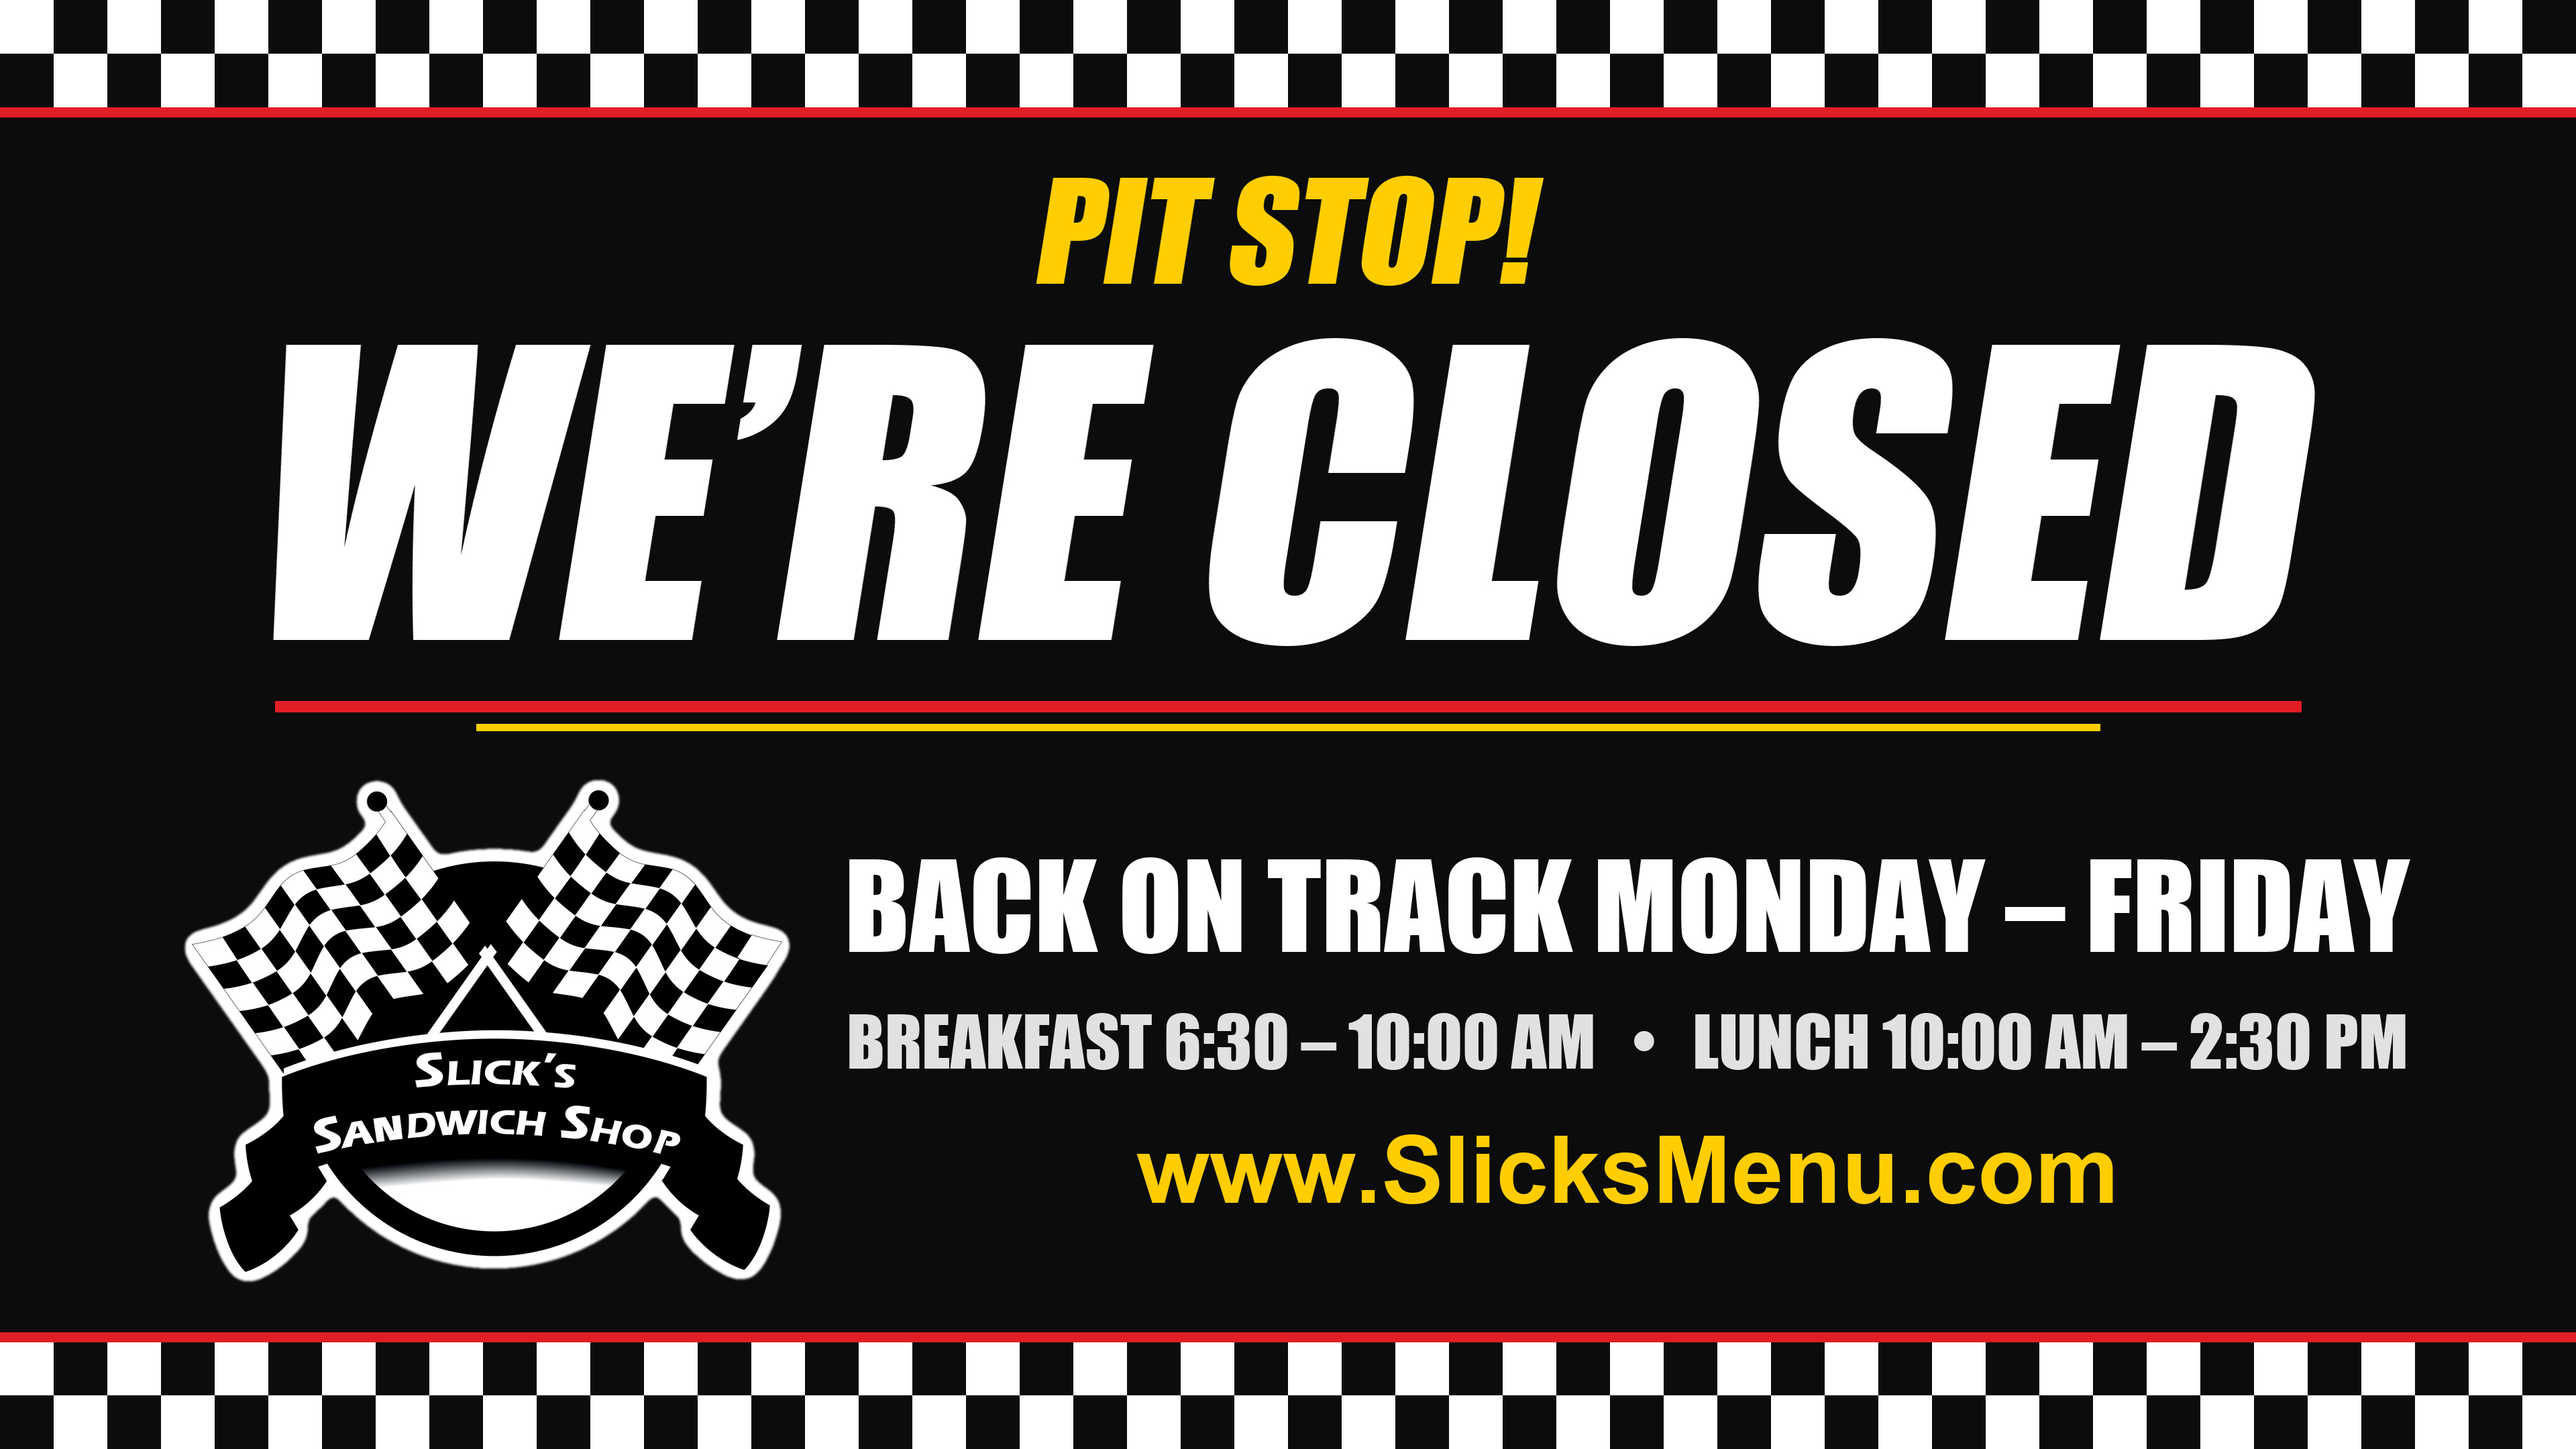
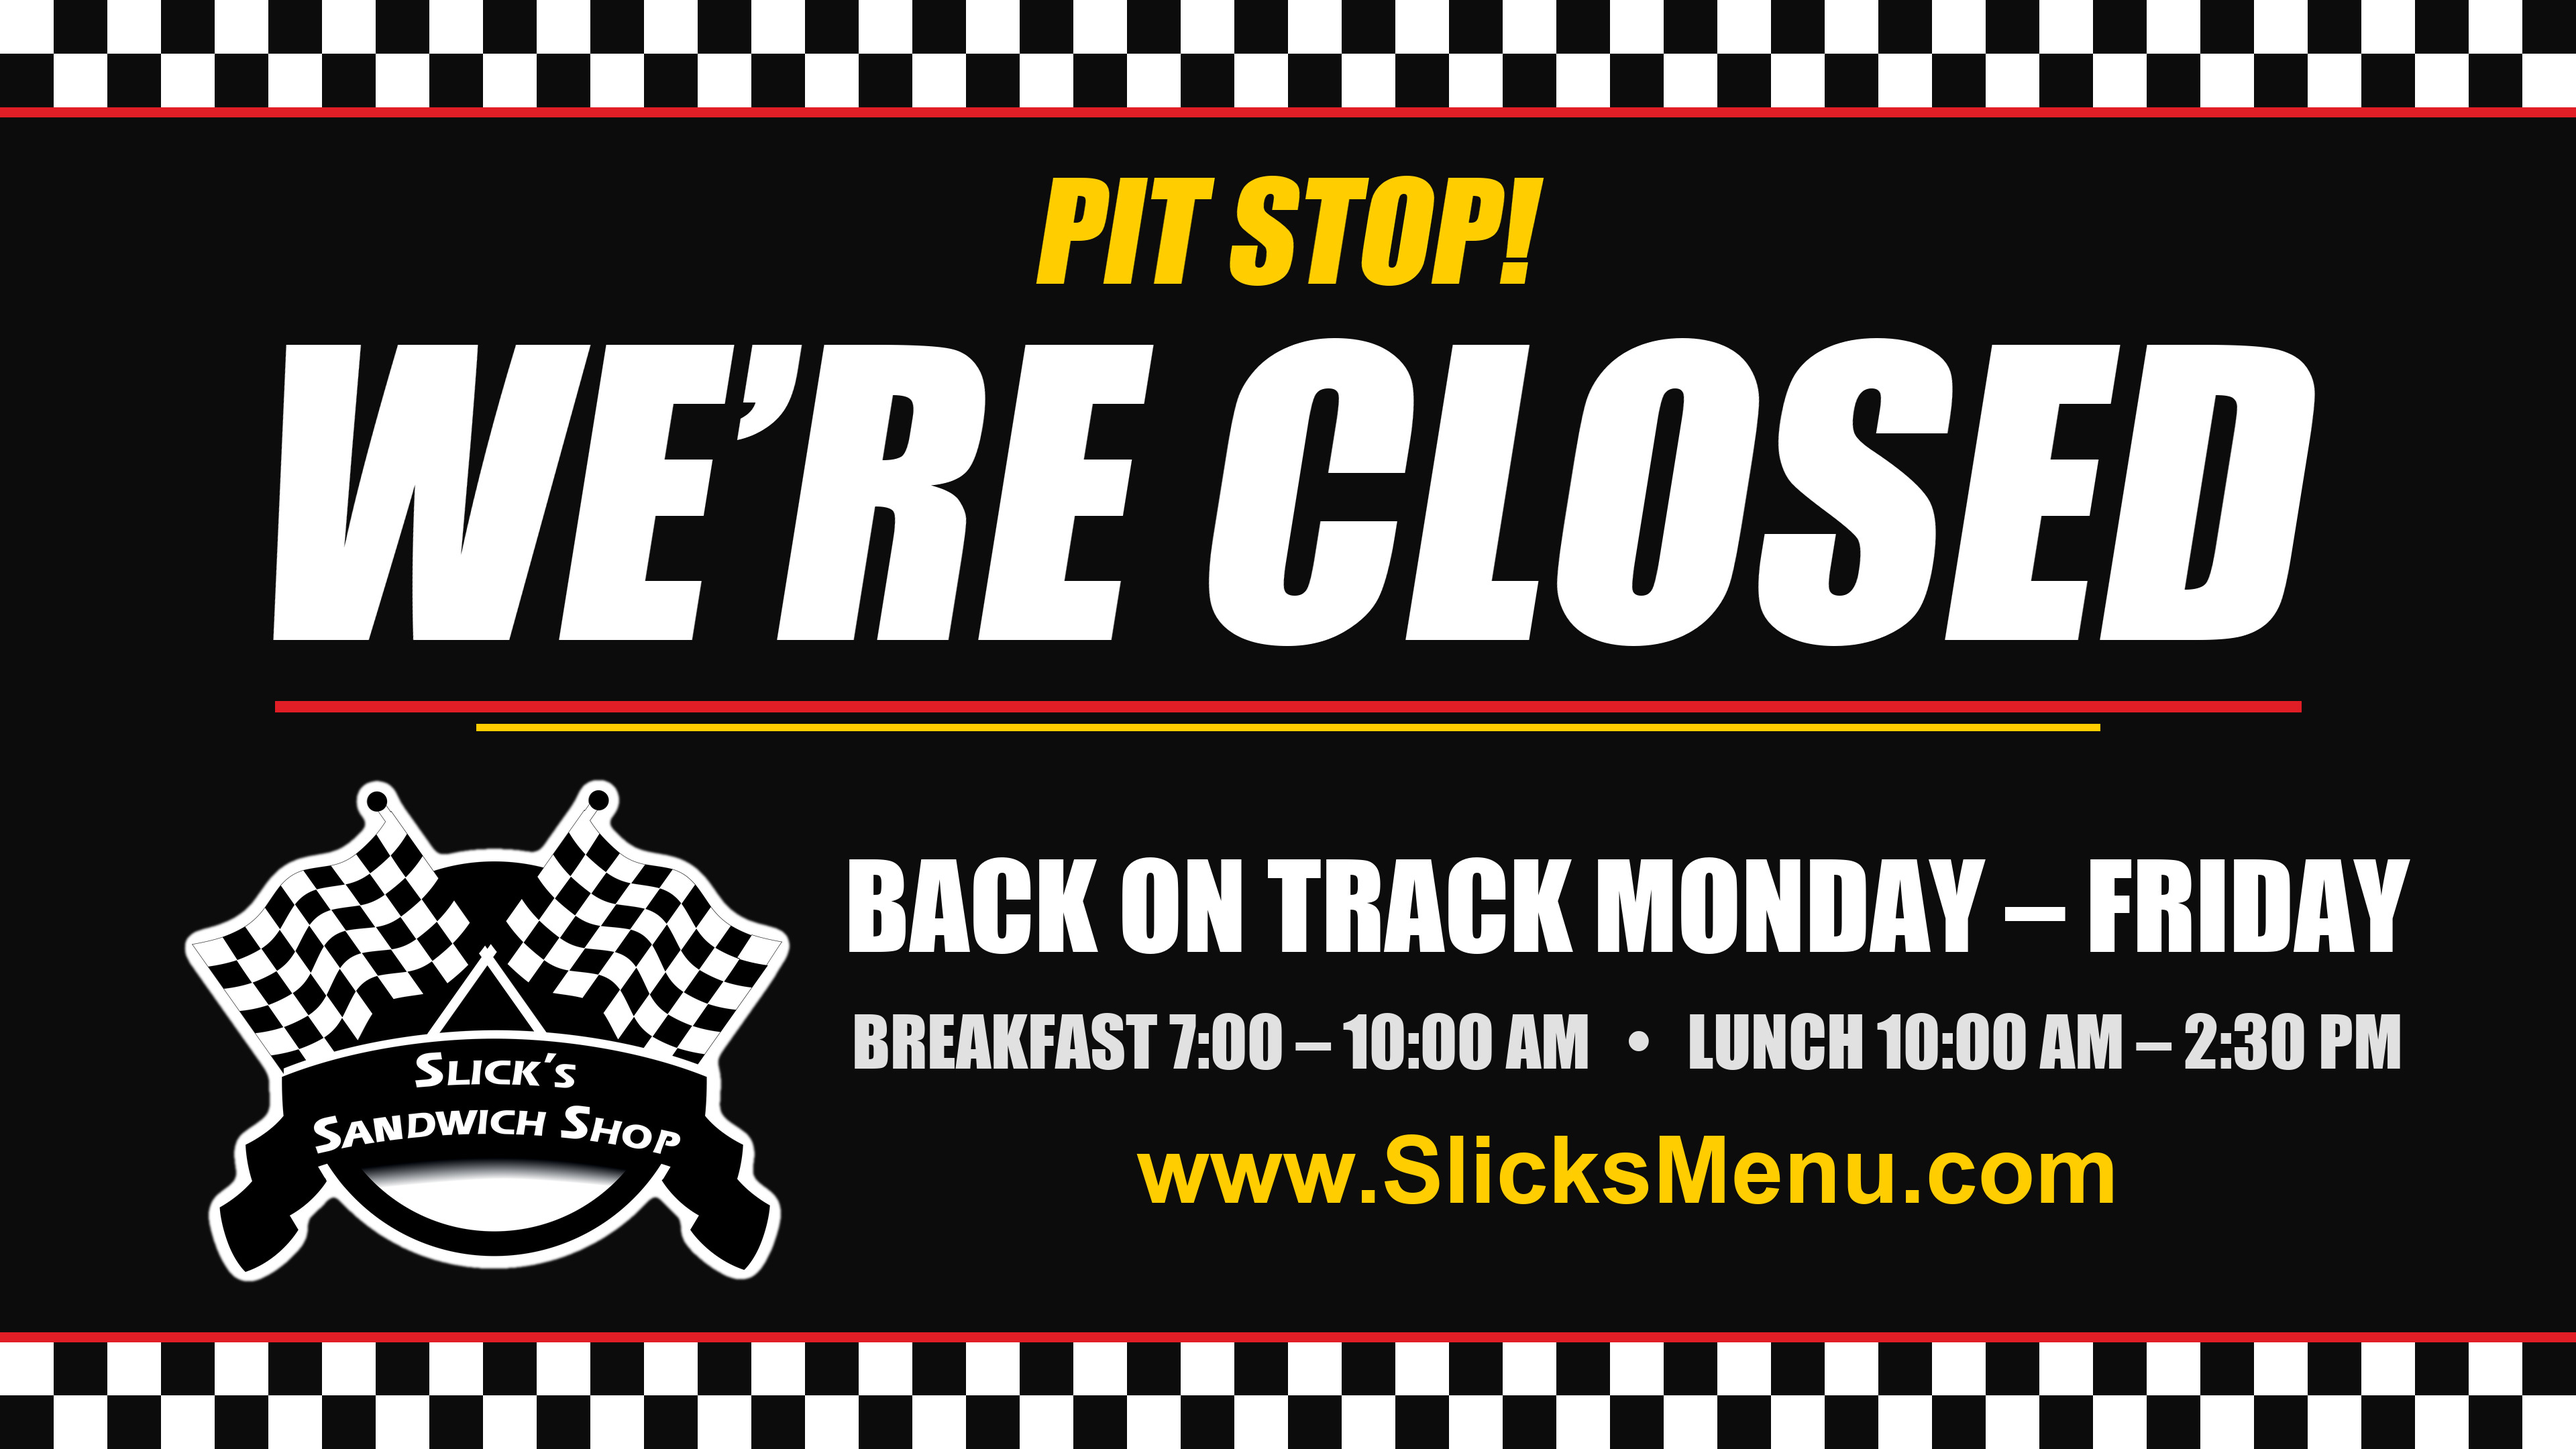
Opening time is 7:00 am, not 6:30
The shop opens at 7:00 am (breakfast 7:00-10:00, lunch 10:00-2:30).

- bundled settings.csv: breakfast_start 07:00
- app.js: built-in default for a missing breakfast_start is now 7:00
- fallback Closed picture redrawn with 7:00; cache bumped to v5
- preview page heading and README updated

The TVs read breakfast_start from the Google Sheet, so that cell must be
changed to 07:00 as well.

Changed region(s): [[0.3125, 0.6824, 0.625, 0.7444], [0.6562, 0.6824, 0.9375, 0.7444]]

diff --git a/app.js b/app.js
@@ -373,7 +373,7 @@
   function schedule(now) {
     var c = data.cfg, info = dayInfo(now);
     var t = now.getUTCHours() * 60 + now.getUTCMinutes();
-    var bs = mins(c.breakfast_start, 390), ls = mins(c.lunch_start, 600), gc = mins(c.grill_close, 840), cl = mins(c.close, 870);
+    var bs = mins(c.breakfast_start, 420), ls = mins(c.lunch_start, 600), gc = mins(c.grill_close, 840), cl = mins(c.close, 870);
     var st = "closed";
     if (info.opens && t >= bs && t < cl) st = t < ls ? "breakfast" : "lunch";
     return { state: st, day: info.day, grillClosed: st === "lunch" && t >= gc };
@@ -384,11 +384,11 @@
   // and when it opens next, and so the hours always match the Sheet.
   var DAYNAMES = { Sun: "Sunday", Mon: "Monday", Tue: "Tuesday", Wed: "Wednesday", Thu: "Thursday", Fri: "Friday", Sat: "Saturday" };
   var MONTHNAMES = ["January", "February", "March", "April", "May", "June", "July", "August", "September", "October", "November", "December"];
-  function clock(m) {            // 390 -> { t: "6:30", ap: "am" }
+  function clock(m) {            // 420 -> { t: "7:00", ap: "am" }
     var h = Math.floor(m / 60), mm = m % 60;
     return { t: ((h + 11) % 12 + 1) + ":" + p2(mm), ap: h < 12 ? "am" : "pm" };
   }
-  function span(a, b) {          // "6:30 – 10:00 am", "10:00 am – 2:30 pm"
+  function span(a, b) {          // "7:00 – 10:00 am", "10:00 am – 2:30 pm"
     var x = clock(a), y = clock(b);
     return x.t + (x.ap === y.ap ? "" : " " + x.ap) + " – " + y.t + " " + y.ap;
   }
@@ -403,7 +403,7 @@
   }
   // The words for right now. Looks up to a year ahead for the next day the shop opens.
   function closedText(now) {
-    var c = data.cfg, bs = mins(c.breakfast_start, 390), ls = mins(c.lunch_start, 600), cl = mins(c.close, 870);
+    var c = data.cfg, bs = mins(c.breakfast_start, 420), ls = mins(c.lunch_start, 600), cl = mins(c.close, 870);
     var t = now.getUTCHours() * 60 + now.getUTCMinutes(), today = dayInfo(now);
     var at = clock(bs), when = "", back = "";
     for (var n = 0; n <= 370; n++) {

diff --git a/sw.js b/sw.js
@@ -11,7 +11,7 @@
  *
  * Bump CACHE when you change any file under assets/ so Pis fetch the new one.
  */
-var CACHE = "slicks-menus-v4";
+var CACHE = "slicks-menus-v5";
 var SHELL = [
   "./", "index.html", "menu.css", "app.js", "config.js",
   "data/items.csv", "data/sections.csv", "data/specials.csv", "data/settings.csv", "data/seasons.csv",

diff --git a/preview.html b/preview.html
@@ -54,7 +54,7 @@
 </div>
 <div id="warn"></div>
 
-<h2>Breakfast (6:30 to 10:00)</h2>
+<h2>Breakfast (7:00 to 10:00)</h2>
 <div class="grid" id="g-breakfast"></div>
 
 <h2>Lunch (10:00 to 2:30)</h2>

diff --git a/README.md b/README.md
@@ -5,7 +5,7 @@ The web page the TVs show. One page, three screens: each Pi opens it with
 
 ## What it does
 
-- Shows **breakfast** 6:30 am - 10:00 am, **lunch** 10:00 am - 2:30 pm,
+- Shows **breakfast** 7:00 am - 10:00 am, **lunch** 10:00 am - 2:30 pm,
   Monday to Friday. Any other time, and any date listed as a holiday, it shows
   the **Closed screen**. (All times and days come from the Google Sheet.)
 - The Closed screen is drawn live: on a date listed in the Sheet's `closed_dates` it says
